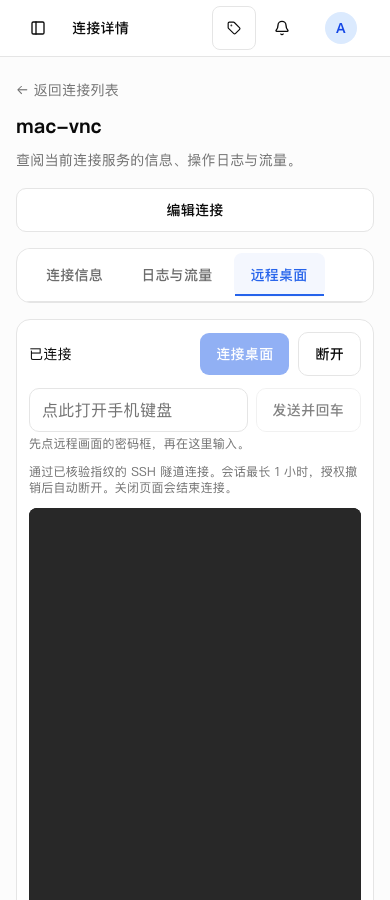
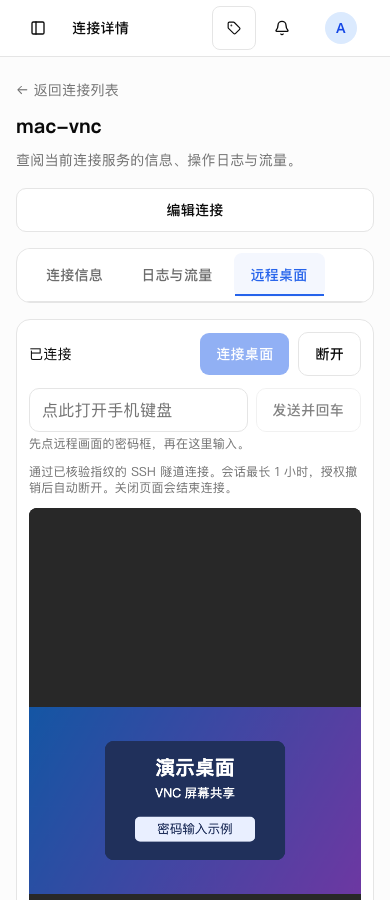
Show key workflows in the README screenshots

Changed region(s): [[0.0615, 0.7778, 0.9231, 0.9956]]

diff --git a/frontend/scripts/capture_screenshots.py b/frontend/scripts/capture_screenshots.py
@@ -204,6 +204,11 @@ def demo_response(url):
 def main():
     from check_runtime import fixture
     RESPONSES['/api/system/overview'] = fixture()
+    RESPONSES['/api/managed-hosts/2/docker/containers'] = dict(containers=[
+        dict(Id='demo-gateway', Names=['/edge-gateway'], Image='nginx:alpine', Status='Up 3 days'),
+        dict(Id='demo-cache', Names=['/office-cache'], Image='redis:alpine', Status='Up 3 days'),
+        dict(Id='demo-worker', Names=['/report-worker'], Image='example.com/demo/worker:1.0', Status='Exited (0)'),
+    ])
     HOSTS.insert(0, {**HOSTS[0], 'id': 7, 'name': 'office-mac-vnc',
         'host_type': 'vnc', 'address': '10.20.0.7', 'port': 5900,
         'credential_id': 4, 'credential_name': '演示 macOS 凭据',
@@ -228,16 +233,25 @@ def main():
 
         def intercept(route):
             url = urlparse(route.request.url)
-            if url.path.startswith('/api/'):
+            if url.netloc != '127.0.0.1:4173':
+                errors.append(f'Unexpected external request: {url.netloc}')
+                route.abort()
+            elif route.request.method == 'GET' and url.path == '/api/frpc/config/group/office':
+                route.fulfill(content_type='text/plain', body='\n'.join([
+                    'serverAddr = "frps-1.example.com"', 'serverPort = 7000', '',
+                    '[[proxies]]', 'name = "office_ssh"', 'type = "tcp"',
+                    'localIP = "127.0.0.1"', 'localPort = 22', 'remotePort = 6001',
+                ]))
+            elif route.request.method == 'POST' and url.path == '/api/managed-hosts/3/test':
+                route.fulfill(json=dict(success=True, duration_ms=25,
+                    stdout='RDP TLS/NLA 及证书校验通过', stderr=''))
+            elif url.path.startswith('/api/'):
                 payload = demo_response(url)
                 if payload is None or route.request.method != 'GET':
                     errors.append(f'Unmocked request: {route.request.method} {url.path}')
                     route.fulfill(status=501, json=dict(detail='Screenshot fixture missing'))
                 else:
                     route.fulfill(json=payload)
-            elif url.netloc != '127.0.0.1:4173':
-                errors.append(f'Unexpected external request: {url.netloc}')
-                route.abort()
             else:
                 route.continue_()
 
@@ -322,10 +336,35 @@ def main():
                 expect(page.get_by_role('link', name='办公 Mac', exact=True)).to_be_visible()
             page.screenshot(path=str(OUTPUT / f'{route}.png'), animations='disabled')
             print(f'Captured {route}: 1920x1080')
+            if route == 'groups':
+                page.get_by_role('button', name='更多操作', exact=True).first.click()
+                page.get_by_role('menuitem', name='生成配置', exact=True).click()
+                dialog = page.get_by_role('dialog')
+                dialog.get_by_text('TOML 格式', exact=True).click()
+                dialog.get_by_role('button', name='生成配置文件', exact=True).click()
+                expect(dialog).to_contain_text('office_ssh')
+                dialog.screenshot(path=str(OUTPUT / 'group-config.png'), animations='disabled')
+                dialog.get_by_role('button', name='关闭', exact=True).first.click()
             if route == 'hosts':
+                docker = page.locator('article').filter(has=page.get_by_role('heading', name='production-docker', exact=True))
+                docker.get_by_role('button', name='容器管理', exact=True).click()
+                dialog = page.get_by_role('dialog')
+                expect(dialog).to_contain_text('edge-gateway')
+                dialog.screenshot(path=str(OUTPUT / 'host-docker.png'), animations='disabled')
+                dialog.get_by_role('button', name='关闭', exact=True).first.click()
+                windows = page.locator('article').filter(has=page.get_by_role('heading', name='office-windows', exact=True))
+                windows.get_by_role('button', name='连接详情', exact=True).click()
+                dialog = page.get_by_role('dialog')
+                expect(dialog).to_contain_text('rdp.example.com:13389')
+                dialog.get_by_role('button', name='重新校验 RDP', exact=True).click()
+                expect(dialog.get_by_role('status', name='TLS／证书校验通过')).to_be_visible()
+                dialog.screenshot(path=str(OUTPUT / 'host-rdp.png'), animations='disabled')
+                dialog.get_by_role('button', name='关闭', exact=True).first.click()
                 for label, filename in [('凭证管理', 'host-credentials'), ('访问授权', 'host-access'), ('审计与流量', 'host-audit')]:
                     page.get_by_role('tab', name=label, exact=True).click()
-                    if label != '凭证管理':
+                    if label == '凭证管理':
+                        expect(page.get_by_role('cell', name='演示部署凭证', exact=True)).to_be_visible()
+                    else:
                         expect(page.get_by_role('row').filter(has_text='operator').first).to_be_visible()
                     settle()
                     page.screenshot(path=str(OUTPUT / f'{filename}.png'), animations='disabled')

diff --git a/frontend/scripts/check_vnc.py b/frontend/scripts/check_vnc.py
@@ -8,7 +8,41 @@ from urllib.parse import urlparse, parse_qs
 from playwright.sync_api import sync_playwright, expect
 import capture_screenshots as demo
 
-INITIAL=struct.pack('!HH',16,16)+bytes([32,24,0,1])+struct.pack('!HHH',255,255,255)+bytes([16,8,0,0,0,0])+struct.pack('!I',4)+b'demo'
+WIDTH, HEIGHT = 640, 360
+INITIAL = (struct.pack('!HH', WIDTH, HEIGHT) + bytes([32,24,0,1])
+           + struct.pack('!HHH',255,255,255) + bytes([0,8,16,0,0,0])
+           + struct.pack('!I',4) + b'demo')
+
+
+def demo_frame(page):
+    rgba = bytes(page.evaluate("""([width, height]) => {
+      const canvas = document.createElement('canvas');
+      canvas.width = width;
+      canvas.height = height;
+      const ctx = canvas.getContext('2d');
+      const wallpaper = ctx.createLinearGradient(0, 0, width, height);
+      wallpaper.addColorStop(0, '#1456a4');
+      wallpaper.addColorStop(1, '#6d38a2');
+      ctx.fillStyle = wallpaper;
+      ctx.fillRect(0, 0, width, height);
+      ctx.fillStyle = '#20305b';
+      ctx.roundRect(146, 65, 348, 230, 18);
+      ctx.fill();
+      ctx.textAlign = 'center';
+      ctx.fillStyle = '#fff';
+      ctx.font = 'bold 38px sans-serif';
+      ctx.fillText('演示桌面', 320, 130);
+      ctx.font = '24px sans-serif';
+      ctx.fillText('VNC 屏幕共享', 320, 174);
+      ctx.fillStyle = '#e9efff';
+      ctx.beginPath();
+      ctx.roundRect(204, 211, 232, 48, 10);
+      ctx.fill();
+      ctx.fillStyle = '#20305b';
+      ctx.fillText('密码输入示例', 320, 243);
+      return Array.from(ctx.getImageData(0, 0, width, height).data);
+    }""", [WIDTH, HEIGHT]))
+    return b'\0\0\0\1' + struct.pack('!HHHHi',0,0,WIDTH,HEIGHT,0) + rgba
 
 def main():
     state=dict(allowed=True,fail=False)
@@ -43,6 +77,7 @@ def main():
                 assert data==b'\x01';ws.send(b'\0'*4);stage=3
             elif stage==3:
                 assert data==b'\x01';ws.send(INITIAL);stage=4
+                ws.send(frame)
         ws.on_message(receive)
     output=Path(__file__).resolve().parents[2]/'.codex-remote-attachments/vnc-ui';output.mkdir(parents=True,exist_ok=True)
     with sync_playwright() as p:
@@ -71,6 +106,7 @@ def main():
         """)
         context.add_init_script("localStorage.setItem('auth_token',btoa('demo:demo-only'))")
         page=context.new_page();page.on('pageerror',lambda e:errors.append(str(e)))
+        frame=demo_frame(page)
         for width in [1280,390,320]:
             page.set_viewport_size(dict(width=width,height=900))
             page.goto('https://vnc.test/dashboard')
@@ -96,6 +132,11 @@ def main():
             page.screenshot(path=str(output/f'vnc-{width}.png'))
             if width == 390 and '--docs-screenshot' in sys.argv:
                 expect(page.get_by_label('远程键盘输入', exact=True)).to_be_visible()
+                page.wait_for_function("""() => {
+                  const canvas = document.querySelector('[aria-label="VNC 远程桌面"] canvas');
+                  const pixel = canvas?.getContext('2d').getImageData(8, 8, 1, 1).data;
+                  return pixel && pixel[2] - pixel[0] > 60;
+                }""", timeout=10000)
                 page.screenshot(path=str(demo.OUTPUT / 'vnc-mobile.png'), animations='disabled')
             page.get_by_role('tab',name='日志与流量',exact=True).click()
             expect(page.get_by_role('alertdialog')).to_be_visible()

diff --git a/frontend/scripts/check_webssh.py b/frontend/scripts/check_webssh.py
@@ -1,5 +1,6 @@
 """Exercise real xterm rendering/input over isolated WebSocket demo messages."""
 import json
+import sys
 from pathlib import Path
 from urllib.parse import urlparse
 from playwright.sync_api import sync_playwright, expect
@@ -36,7 +37,10 @@ def main():
                     ws.send(json.dumps(dict(type='error',message='SSH 主机指纹不匹配，连接已阻止')))
                     ws.close(code=1008,reason='demo mismatch'); return
                 ws.send(json.dumps(dict(type='ready')))
-                ws.send(b'\x1b[32mWeb SSH demo ready\x1b[0m\r\n$ ')
+                ws.send(b'\x1b[32mWeb SSH demo ready\x1b[0m\r\n'
+                        b'deploy@demo-linux:~$ uptime\r\n'
+                        b' 09:30:00 up 3 days,  load average: 0.14, 0.21, 0.18\r\n'
+                        b'deploy@demo-linux:~$ ')
             elif packet['type']=='input': ws.send(packet['data'].encode())
         ws.on_message(receive)
 
@@ -47,8 +51,8 @@ def main():
         context.route_web_socket('**/api/managed-hosts/*/terminal',websocket)
         context.add_init_script("localStorage.setItem('auth_token',btoa('demo-admin:demo-only'))")
         page=context.new_page();page.on('pageerror',lambda e:errors.append(str(e)))
-        for width in [1280,390,320]:
-            page.set_viewport_size(dict(width=width,height=900))
+        for width in [1920,390,320]:
+            page.set_viewport_size(dict(width=width,height=1080 if width==1920 else 900))
             page.goto(demo.BASE+'/hosts');page.wait_for_load_state('networkidle')
             card=page.locator('article').filter(has=page.get_by_role('heading',name='production-linux',exact=True))
             card.get_by_role('button',name='Web SSH',exact=True).click()
@@ -66,6 +70,8 @@ def main():
             assert any(p['type']=='resize' and p['cols']>0 and p['rows']>0 for p in packets)
             assert page.evaluate('document.documentElement.scrollWidth<=innerWidth')
             page.screenshot(path=str(output/f'webssh-{width}.png'))
+            if width == 1920 and '--docs-screenshot' in sys.argv:
+                page.screenshot(path=str(demo.OUTPUT / 'webssh.png'), animations='disabled')
             page.get_by_role('tab',name='日志与流量',exact=True).click()
             expect(page.get_by_role('alertdialog')).to_contain_text('断开当前 SSH 会话')
             page.get_by_role('button',name='取消',exact=True).click()

diff --git a/README.md b/README.md
@@ -25,7 +25,13 @@ docker compose up -d --no-build
 
 1. 打开 **穿透服务**，添加已有 frps 并测试管理接口，或在 **内置服务** 中启用本机 frps。
 2. 在 **代理列表** 同步代理，按节点、分组和状态查询。到 **分组管理** 生成或导入 INI / TOML，并按组生成客户端安装脚本。
-3. 在 **安装包管理** 同步或上传 frpc 安装包。代理异常时，到 **运行维护** 查看资源和连接检查。
+3. 在 **安装包管理** 同步或上传 frpc 安装包。代理异常时，到 **运行维护** 查看资源和连接检查。[运行维护截图](docs/screenshots/operations.png)
+
+![代理列表：按节点、分组和状态筛选](docs/screenshots/proxies.png)
+
+![分组配置：生成、预览并下载 frpc TOML](docs/screenshots/group-config.png)
+
+![安装包管理：按版本和平台查看 frpc 安装包](docs/screenshots/packages.png)
 
 内置 frps 默认使用 `7000/TCP`，Compose 已映射 `6000–6099/TCP、UDP` 作为默认代理端口池。修改端口后同步调整 Compose 和防火墙。[Linux 分组部署](docs/group-deploy-linux.md)
 
@@ -33,18 +39,24 @@ docker compose up -d --no-build
 
 打开 **主机资源 → 添加连接服务**，选协议并填写地址、端口和凭据。可选已有主机，留空则保存时创建同名主机。列表可按连接、主机、分组和协议查询。
 
-| 协议 | 从哪里连接 |
-| --- | --- |
-| SSH | **Web SSH** 打开交互式终端。也可通过原生 SSH 网关访问。 |
-| Docker / Portainer | **容器管理** 查看、启动、停止或重启容器。 |
-| RDP | 校验目标证书后下载 `.rdp`，用 Windows 远程桌面客户端打开。 |
-| macOS VNC | 先在 Mac 开启屏幕共享和 VNC 密码控制。添加 VNC 连接后，点 **远程桌面 → 连接桌面**。 |
+| 协议 | 从哪里连接 | 操作截图 |
+| --- | --- | --- |
+| SSH | **Web SSH** 打开交互式终端。也可通过原生 SSH 网关访问。 | [Web SSH 终端](docs/screenshots/webssh.png) |
+| Docker / Portainer | **容器管理** 查看、启动、停止或重启容器。 | [容器列表](docs/screenshots/host-docker.png) |
+| RDP | 校验目标证书后下载 `.rdp`，用 Windows 远程桌面客户端打开。 | [RDP 连接和证书](docs/screenshots/host-rdp.png) |
+| macOS VNC | 先在 Mac 开启屏幕共享和 VNC 密码控制。添加 VNC 连接后，点 **远程桌面 → 连接桌面**。 | [添加 VNC](docs/screenshots/vnc-add.png) |
 
 ![连接服务：按主机和分组筛选，直接测试或连接](docs/screenshots/hosts.png)
 
-VNC 直连填写可从平台访问的内网地址和实际端口，SSH 隧道可选。手机遇到锁屏时，先点远程画面的密码框，再点网页里的 **点此打开手机键盘**，输入后选 **发送并回车**。[macOS VNC 接入](docs/vnc-macos.md) · [手机键盘截图](docs/screenshots/vnc-mobile.png)
+![Web SSH：浏览器内的交互式终端](docs/screenshots/webssh.png)
 
-团队使用时，在 **主机资源 → 访问授权** 给用户或 API Key 分配所需连接，在 **审计与流量** 查看访问记录。[凭据、权限和原生客户端接入](docs/host-management.md)
+VNC 直连填写可从平台访问的内网地址和实际端口，SSH 隧道可选。手机遇到锁屏时，先点远程画面的密码框，再点网页里的 **点此打开手机键盘**，输入后选 **发送并回车**。[macOS VNC 接入](docs/vnc-macos.md)
+
+![手机 VNC：远程画面上方的键盘输入和发送按钮](docs/screenshots/vnc-mobile.png)
+
+团队使用时，在 **主机资源 → 访问授权** 给用户或 API Key 分配所需连接，在 **审计与流量** 查看访问记录。[访问授权截图](docs/screenshots/host-access.png) · [凭据、权限和原生客户端接入](docs/host-management.md)
+
+![审计与流量：按主机、操作者和动作查找记录](docs/screenshots/host-audit.png)
 
 ## 升级已有部署
 

diff --git a/docs/screenshots/README.md b/docs/screenshots/README.md
@@ -1,12 +1,12 @@
 # 界面截图
 
-截图来自 1.4.3 的生产构建，使用隔离演示数据。桌面截图为 1920 × 1080，手机截图为 390 × 900。
+截图来自 1.4.3 的生产构建，使用隔离演示数据。桌面整页截图为 1920 × 1080，关键弹窗单独取景，手机截图为 390 × 900。
 
 | 场景 | 截图 |
 | --- | --- |
 | 开始使用 | [登录](login.png) · [仪表盘](dashboard.png) |
-| FRP 代理 | [穿透服务](servers.png) · [内置服务](builtin-service.png) · [代理列表](proxies.png) · [分组管理](groups.png) |
-| 远程连接 | [连接服务](hosts.png) · [按主机查看](machines.png) · [添加 macOS VNC](vnc-add.png) · [手机键盘入口](vnc-mobile.png) · [连接详情](host-detail.png) |
+| FRP 代理 | [穿透服务](servers.png) · [内置服务](builtin-service.png) · [代理列表](proxies.png) · [分组管理](groups.png) · [生成配置](group-config.png) |
+| 远程连接 | [连接服务](hosts.png) · [按主机查看](machines.png) · [Web SSH](webssh.png) · [Docker 容器](host-docker.png) · [RDP 证书校验](host-rdp.png) · [添加 VNC](vnc-add.png) · [手机键盘](vnc-mobile.png) · [连接详情](host-detail.png) |
 | 权限和审计 | [凭证管理](host-credentials.png) · [访问授权](host-access.png) · [审计与流量](host-audit.png) · [连接日志](host-logs.png) · [API Key](api-keys.png) |
 | 运维工具 | [运行维护](operations.png) · [安装包管理](packages.png) · [配置转换](converter.png) |
 
@@ -27,6 +27,7 @@ python -m pip install playwright==1.58.0
 python -m playwright install chromium
 python frontend/scripts/capture_screenshots.py --screenshots-only
 python frontend/scripts/check_vnc.py --docs-screenshot
+python frontend/scripts/check_webssh.py --docs-screenshot
 ```
 
 去掉 `--screenshots-only` 可同时检查手机布局、导航和弹窗，验证图片输出到 `data/ui-review`。脚本拦截 API 请求并阻止外部连接，截图应始终使用演示数据。
